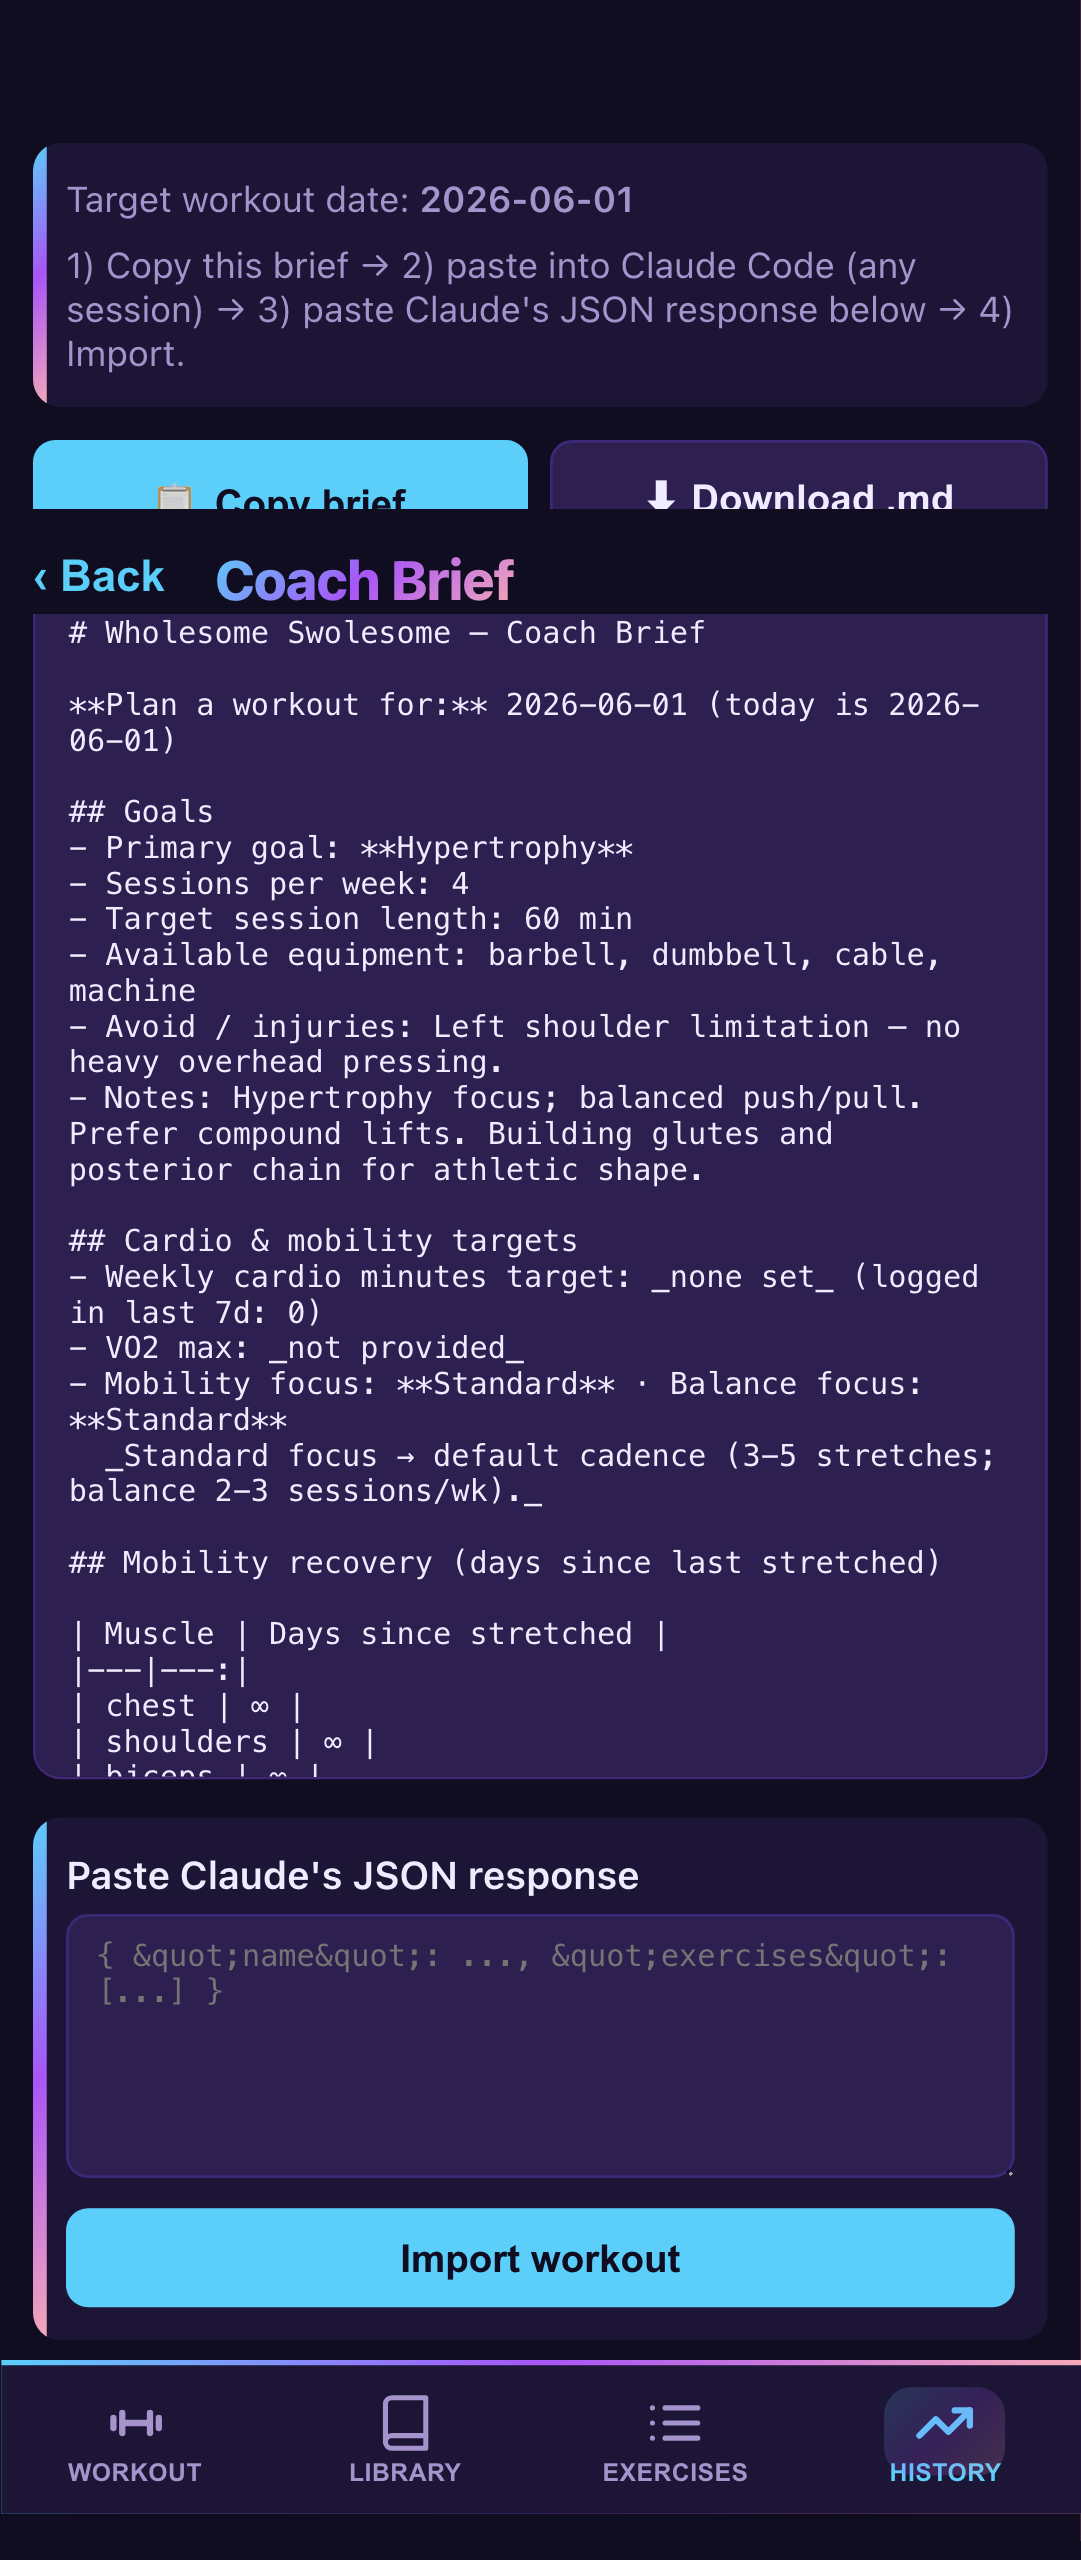
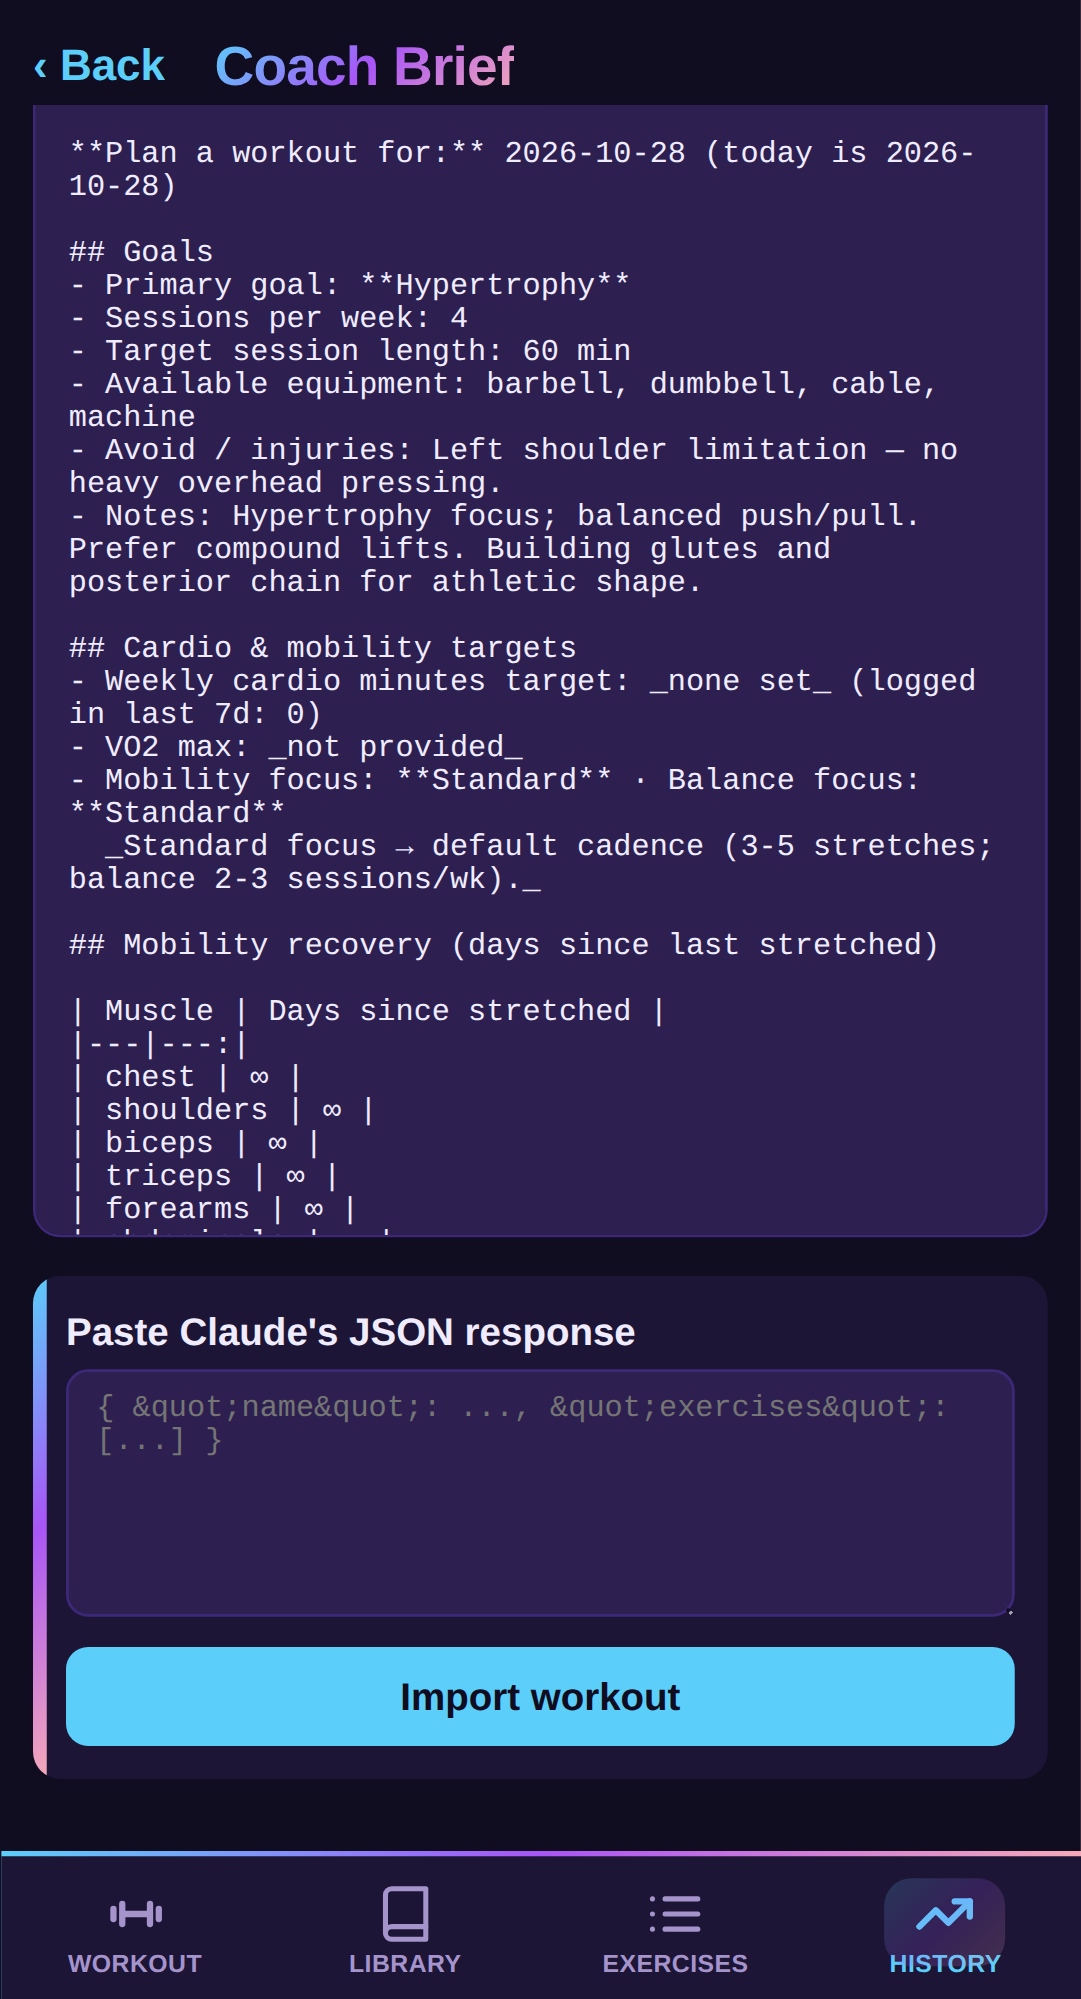
docs(walkthrough): capture screenshots without the fixed-chrome artifact
QA on #61: the regenerated 02-goals-and-cardio.png had the bottom nav painted
across the Sync actions card (hiding Pull/Push from GitHub) and the sticky
header painted across Cardio & mobility (hiding the weekly-cardio input).

Cause is the capture, not the app: Chromium paints `position: fixed` and
`sticky` elements at their *viewport* position into a `fullPage` screenshot,
so on any page taller than the viewport the nav and `.page-header` land in the
middle of the image. Every curated shot taller than 1999px had it — 02, 03,
04, 05, 06 and 08 — not just the one QA caught.

- `fullPageShot` (tests/playwright/helpers.ts) neutralises the chrome for the
  duration of the capture: header `position: static`, nav `absolute` and
  parked at the document's true bottom (the `.page` padding already reserves
  `--nav-h` there). Both are restored afterwards.
- `viewportShot` covers 04/05. They're the same document at two scroll
  positions, so chrome-neutralised fullPage captures of each came out 98%
  identical — a plain phone-screen capture keeps "top of the brief" and "the
  paste box at the bottom" two distinct pictures, with the chrome where it
  belongs.

All nine curated images recaptured: the six artifact-afflicted ones because
they had to be, and 01/07/09 (viewport-height, so never afflicted) so the
fixture dates read 2026-10-28 across the whole page instead of two of them
still saying 2026-06-01. Verified by eye: Pull/Push from GitHub and the
[…]

diff --git a/tests/playwright/helpers.ts b/tests/playwright/helpers.ts
@@ -110,3 +110,64 @@ export async function completeAllSets(page: Page) {
     }
   }
 }
+
+/**
+ * `fullPage` screenshot with the app's fixed/sticky chrome neutralised.
+ *
+ * Chromium paints `position: fixed` / `sticky` elements at their *viewport*
+ * position into a fullPage capture, so on a page taller than the viewport the
+ * bottom nav and the sticky `.page-header` end up painted across the middle of
+ * the image, hiding whatever is behind them (the Sync actions buttons, the
+ * weekly-cardio input, …). For the walkthrough shots — which are the thing
+ * people actually look at — that artifact is unacceptable.
+ *
+ * So for the duration of the capture:
+ *  - `.page-header` goes `position: static`, i.e. it stays where it already is
+ *    at the top of the document instead of following the scroll, and
+ *  - `.bottom-nav` goes `position: absolute`, parked at the true bottom of the
+ *    document (the `.page` padding already reserves `--nav-h` of space there).
+ *
+ * Both are restored afterwards, so this only affects the screenshot.
+ */
+export async function fullPageShot(page: Page, file: string) {
+  await page.evaluate(() => {
+    const style = document.createElement('style');
+    style.id = 'walkthrough-chrome-fix';
+    style.textContent =
+      '.page-header { position: static !important; }' +
+      '.bottom-nav { position: absolute !important; bottom: auto !important; }';
+    document.head.appendChild(style);
+
+    // Park the nav at the document's bottom edge. Measured after the style is
+    // in place, since un-sticking the header can change the document height.
+    const nav = document.querySelector('.bottom-nav') as HTMLElement | null;
+    if (!nav) return;
+    const docH = Math.max(
+      document.documentElement.scrollHeight,
+      document.body.scrollHeight,
+      window.innerHeight,
+    );
+    nav.style.top = `${docH - nav.offsetHeight}px`;
+  });
+
+  await page.screenshot({ path: file, fullPage: true });
+
+  await page.evaluate(() => {
+    const nav = document.querySelector('.bottom-nav') as HTMLElement | null;
+    if (nav) nav.style.top = '';
+    document.getElementById('walkthrough-chrome-fix')?.remove();
+  });
+}
+
+/**
+ * Plain viewport-height screenshot — the phone's screen, as the user sees it.
+ *
+ * The counterpart to [`fullPageShot`]: where a scene is *about* scroll position
+ * (top of the Coach Brief vs. its paste box at the bottom), a fullPage capture
+ * flattens both into the same tall image. A viewport shot keeps them distinct,
+ * and fixed/sticky chrome paints exactly where it belongs, so there's no
+ * mid-image artifact to neutralise.
+ */
+export async function viewportShot(page: Page, file: string) {
+  await page.screenshot({ path: file });
+}

diff --git a/tests/playwright/walkthrough_hypertrophy.spec.ts b/tests/playwright/walkthrough_hypertrophy.spec.ts
@@ -1,6 +1,7 @@
 import { test, expect, Page } from '@playwright/test';
 import * as path from 'path';
 import * as fs from 'fs';
+import { fullPageShot, viewportShot } from './helpers';
 
 const BASE = 'http://localhost:8081';
 const SHOTS_DIR = path.join(__dirname, 'screenshots', 'walkthrough_hypertrophy');
@@ -8,11 +9,14 @@ const SHOTS_DIR = path.join(__dirname, 'screenshots', 'walkthrough_hypertrophy')
 fs.mkdirSync(SHOTS_DIR, { recursive: true });
 
 let shotIdx = 0;
-async function shot(page: Page, label: string) {
+async function shot(page: Page, label: string, opts: { viewport?: boolean } = {}) {
   shotIdx++;
   const n = String(shotIdx).padStart(2, '0');
   const file = path.join(SHOTS_DIR, `${n}_${label}.png`);
-  await page.screenshot({ path: file, fullPage: true });
+  // Default is a chrome-neutralised fullPage capture: see fullPageShot's note
+  // on fixed/sticky elements being painted mid-image by Chromium. Scenes whose
+  // point IS the scroll position take a viewport shot instead.
+  await (opts.viewport ? viewportShot(page, file) : fullPageShot(page, file));
   console.log(`  📸 ${path.basename(file)}`);
 }
 
@@ -167,12 +171,14 @@ test.describe('Hypertrophy walkthrough', () => {
 
     await page.locator('button', { hasText: 'Generate workout with Claude' }).click();
     await page.waitForSelector('.coach-packet-pre');
-    await shot(page, 'coach_brief_top');
+    // Viewport shots: "top of the brief" and "its paste box at the bottom" are
+    // the same document, so a fullPage capture of each would be the same image.
+    await shot(page, 'coach_brief_top', { viewport: true });
 
     // Target date auto-computes to today (no scheduled workout yet).
     // Scroll to bottom of the brief so paste textarea is visible.
     await page.evaluate(() => window.scrollTo(0, document.body.scrollHeight));
-    await shot(page, 'coach_brief_bottom');
+    await shot(page, 'coach_brief_bottom', { viewport: true });
 
     // ── 11. Paste the Claude-style JSON response and import ──────────────────
     const pasteBox = page.locator('textarea').filter({ hasText: '' }).last();

diff --git a/tests/playwright/walkthrough_legday.spec.ts b/tests/playwright/walkthrough_legday.spec.ts
@@ -1,6 +1,7 @@
 import { test, expect, Page } from '@playwright/test';
 import * as path from 'path';
 import * as fs from 'fs';
+import { fullPageShot } from './helpers';
 
 // Library-backed leg-day walkthrough. Verifies that:
 //  - The Library tab loads and a detail view shows the body silhouette
@@ -21,7 +22,9 @@ async function shot(page: Page, label: string) {
   shotIdx++;
   const n = String(shotIdx).padStart(2, '0');
   const file = path.join(SHOTS_DIR, `${n}_${label}.png`);
-  await page.screenshot({ path: file, fullPage: true });
+  // Chrome-neutralised capture: see fullPageShot's note on fixed/sticky
+  // elements being painted mid-image by Chromium's fullPage screenshots.
+  await fullPageShot(page, file);
   console.log(`  📸 ${path.basename(file)}`);
 }
 

diff --git a/CHANGELOG.md b/CHANGELOG.md
@@ -18,7 +18,7 @@ for breaking changes. See `RELEASING.md`.
 ## [Unreleased]
 
 ### Documentation
-- **Walkthrough refreshed against everything merged since 2026-06-01** (#58, code none — docs only, docs this change) — `docs/walkthrough.md` had not moved since `ad76b42` while ~15 PRs (#24–#57) changed what it describes. Rewritten against the source: the full-screen note editor for injuries/coach notes (#42), the Z1–Z5 heart-rate zone grid and zone-derived RPE that replaced min × RPE for cardio (#28–#32, #51), the weight input kept for commonly-loaded body-only lifts (#27), the Exercises-tab "Logging for" date picker (#26), Apple Health re-import correcting in place (#39), the coach brief's planned-vs-logged / no-invented-preferences / stretching-excluded-from-recovery rules (#33–#35), the nightly agent running off the shared `coach-brief` generator (#38), and Pages deploying from published releases rather than every push to `main` (#43, #53). `02-goals-and-cardio.png` recaptured (the only curated scene whose UI actually changed); the other eight screens are unchanged in the source, so their images were left alone. The curated→spec→raw screenshot mapping is now recorded at the top of the walkthrough, and `walkthrough_hypertrophy.spec.ts` drives the note editor instead of the removed inline textareas.
+- **Walkthrough refreshed against everything merged since 2026-06-01** (#58, code none — docs only, docs this change) — `docs/walkthrough.md` had not moved since `ad76b42` while ~15 PRs (#24–#57) changed what it describes. Rewritten against the source: the full-screen note editor for injuries/coach notes (#42), the Z1–Z5 heart-rate zone grid and zone-derived RPE that replaced min × RPE for cardio (#28–#32, #51), the weight input kept for commonly-loaded body-only lifts (#27), the Exercises-tab "Logging for" date picker (#26), Apple Health re-import correcting in place (#39), the coach brief's planned-vs-logged / no-invented-preferences / stretching-excluded-from-recovery rules (#33–#35), the nightly agent running off the shared `coach-brief` generator (#38), and Pages deploying from published releases rather than every push to `main` (#43, #53). All nine curated screenshots recaptured. The walkthrough harness took `fullPage` captures with the app's chrome still fixed/sticky, so Chromium painted the bottom nav and the `.page-header` at their viewport position — across the middle of every image taller than the viewport, hiding the Sync *Pull/Push* buttons and the weekly-cardio input on the Options shot, among others. `fullPageShot` now neutralises that chrome for the capture (header `static`, nav parked at the document's true bottom) and `viewportShot` covers the two Coach Brief shots, which are one document at two scroll positions and would otherwise collapse into the same image. The curated→spec→raw mapping and the capture modes are recorded at the top of the walkthrough, and `walkthrough_hypertrophy.spec.ts` drives the note editor instead of the removed inline textareas.
 
 ### Fixed
 - **Auto-deploy dispatches `main`, not the release tag** (#53, code this change, docs none — internal) — the `github-pages` environment's deployment-branch policy only permits `main`, so dispatching `deploy.yml` at the tag was rejected (`BlobNotFound`); v0.5.1's first auto-deploy attempt hit this. `release.yml` now dispatches `main`, which is the just-tagged commit, so the release still deploys exactly its own code. Rolls into the next release.

diff --git a/docs/walkthrough.md b/docs/walkthrough.md
@@ -24,6 +24,14 @@
   The raw filenames are the spec's shot order, so adding or removing a `shot()`
   call renumbers everything after it — re-check this table when a spec changes.
   README.md embeds 06, 07 and 08; don't rename those.
+
+  Capture modes (`helpers.ts`): everything is a `fullPageShot` — a fullPage
+  capture with the fixed bottom nav and sticky header neutralised, since
+  Chromium otherwise paints them at their *viewport* position, i.e. across the
+  middle of a tall image, hiding whatever is behind them. 04 and 05 are the
+  exception: they're the same document seen at two scroll positions, so they
+  use `viewportShot` (a plain phone-screen capture, chrome where it belongs)
+  and stay two distinct pictures.
 -->
 
 # Wholesome Swolesome — a tour
